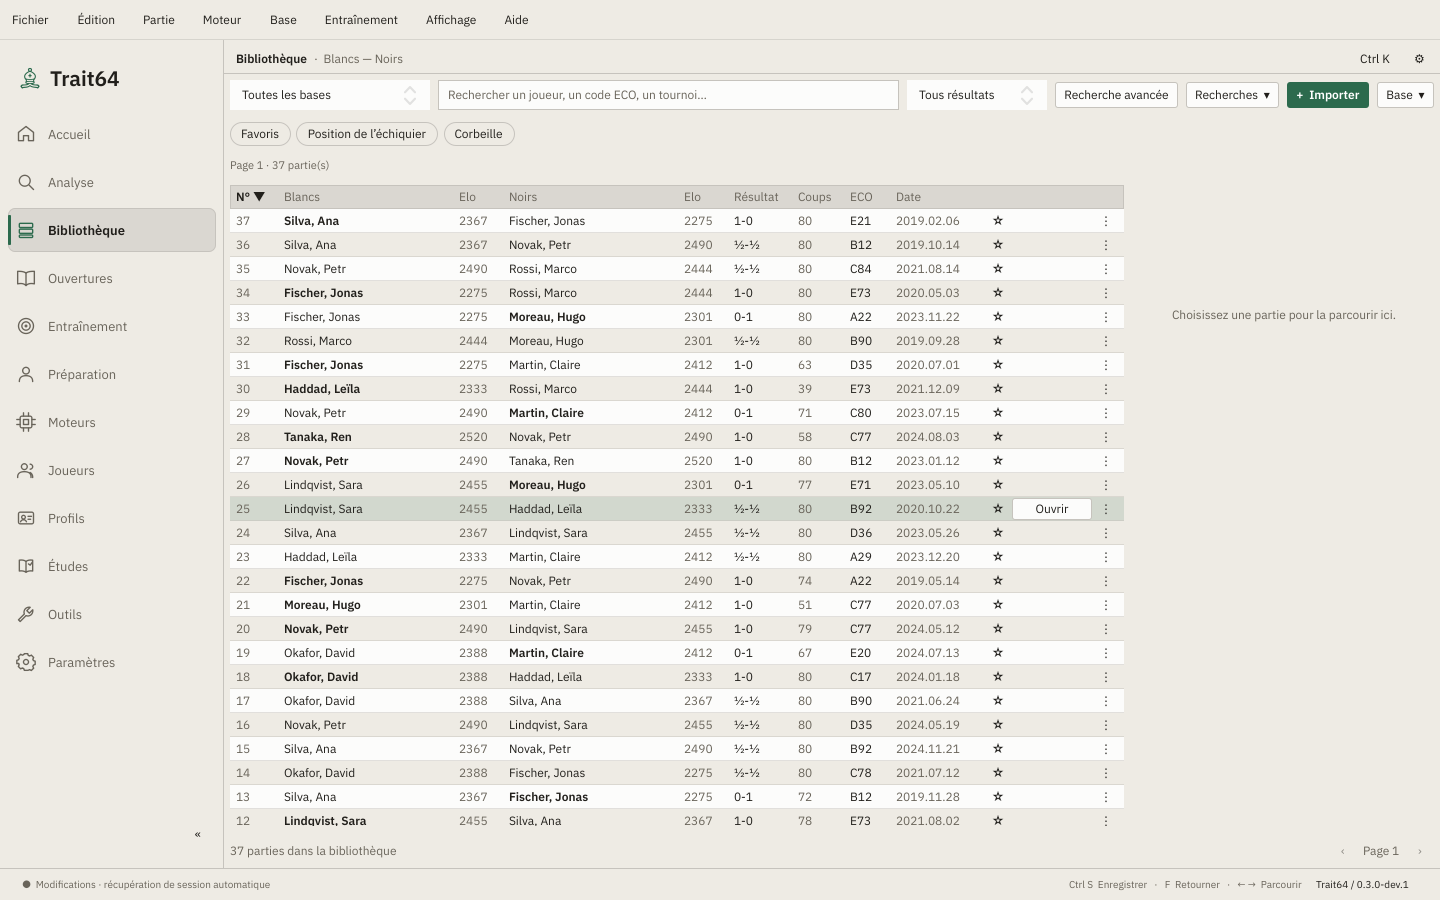
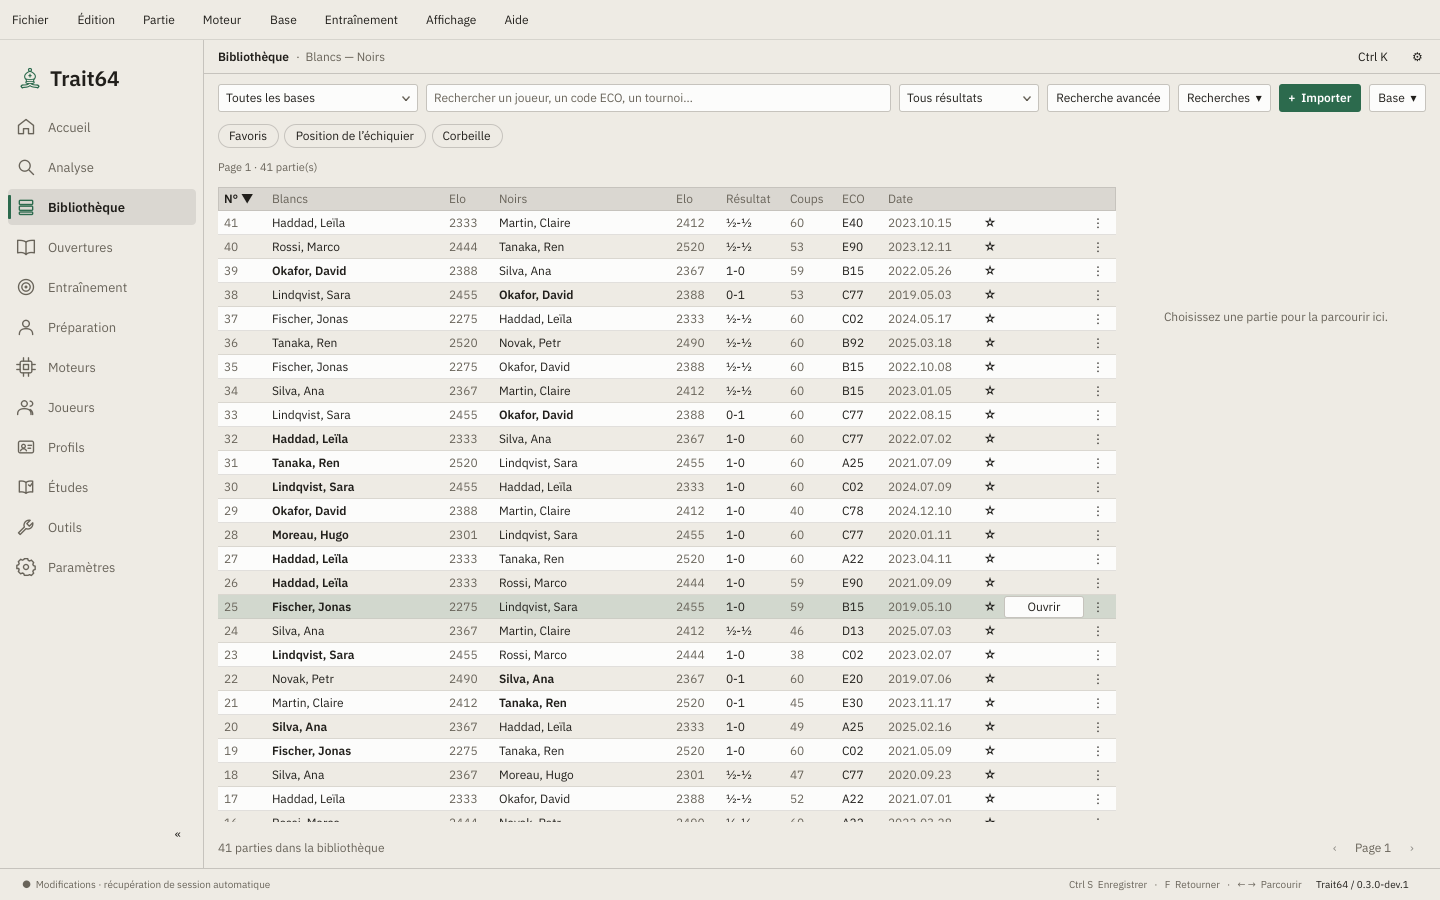
Version 0.4.0 : première bêta, README et captures à jour, notes de version, modèle de bug étendu à Windows et macOS

diff --git a/ui/Main.qml b/ui/Main.qml
@@ -854,7 +854,7 @@ ColumnLayout {width:trainingViewport.availableWidth;height:Math.max(trainingView
                     Rectangle {Layout.fillWidth:true;implicitHeight:children[0].implicitHeight+36;radius:6;color:"transparent";border.color:win.line
                         ColumnLayout {anchors.fill:parent;anchors.margins:18;spacing:6
                             Label {text:qsTr("Trait64 est un logiciel libre.");font.pixelSize:Math.round(14*controller.preferences.fontScale*controller.preferences.uiScale);font.weight:Font.DemiBold}
-                            Label {text:qsTr("C++23 · Qt6 · chess-library · moteurs UCI externes. Code sous AGPL-3.0-or-later.\nCette version alpha propose les outils locaux essentiels ; le catalogue complet reste en développement.");color:win.muted;wrapMode:Text.WordWrap;Layout.fillWidth:true;font.pixelSize:Math.round(12*controller.preferences.fontScale*controller.preferences.uiScale)}
+                            Label {text:qsTr("C++23 · Qt6 · chess-library · moteurs UCI externes. Code sous AGPL-3.0-or-later.\nVersion bêta : les fonctions sont là, elles s'affinent encore. Gardez des sauvegardes de vos bases.");color:win.muted;wrapMode:Text.WordWrap;Layout.fillWidth:true;font.pixelSize:Math.round(12*controller.preferences.fontScale*controller.preferences.uiScale)}
                         }
                     }
                     Item {height:20}
@@ -1165,7 +1165,7 @@ ColumnLayout {width:trainingViewport.availableWidth;height:Math.max(trainingView
             Label {objectName:"helpTitle";Layout.fillWidth:true;Layout.minimumWidth:0;wrapMode:Text.WordWrap;text:qsTr("Un atelier personnel pour vos échecs.");font.pixelSize:Math.round(21*controller.preferences.fontScale*controller.preferences.uiScale);font.weight:Font.DemiBold}
             Label {text:qsTr("• Cliquez une pièce puis sa case, ou glissez-la.\n• Revenez dans une partie et jouez un autre coup pour créer une variante.\n• Clic droit glissé : flèche ; clic droit sur une case : cercle ;\n  double clic, gauche ou droit : effacer toutes les annotations.\n• Ctrl + molette au-dessus de l’échiquier : régler sa taille.\n• Flèches gauche/droite : coups ; haut/bas : variantes ; Espace : lecture automatique.\n• Clic droit sur un coup ou touche Suppr : le supprimer avec sa suite (Ctrl+Z pour annuler).\n• Enregistrez une étude pour l’ajouter à votre bibliothèque.\n• Importez un PGN pour alimenter l’explorateur d’ouvertures.\n• Créez des cartes à partir des lignes que vous souhaitez retenir.");wrapMode:Text.WordWrap;Layout.fillWidth:true;lineHeight:1.5}
             Label {text:qsTr("Ctrl N : nouvelle étude    ·    Ctrl O : importer\nCtrl S : enregistrer    ·    Ctrl K : commandes\n← / → : précédent / suivant    ·    F : retourner\nDébut / Fin : début / fin de la ligne");Layout.fillWidth:true;wrapMode:Text.WordWrap;color:win.muted;lineHeight:1.6}
-            Label {text:qsTr("Version de développement 0.3.0. Les sauvegardes PGN et SQLite sont recommandées pour vos études importantes. Le format .t64 est expérimental.");wrapMode:Text.WordWrap;Layout.fillWidth:true;font.pixelSize:Math.round(11*controller.preferences.fontScale*controller.preferences.uiScale);color:win.muted}
+            Label {text:qsTr("Version %1. Les sauvegardes PGN et SQLite sont recommandées pour vos études importantes. Le format .t64 est expérimental.").arg(Qt.application.version);wrapMode:Text.WordWrap;Layout.fillWidth:true;font.pixelSize:Math.round(11*controller.preferences.fontScale*controller.preferences.uiScale);color:win.muted}
         }}
     }
     TDialog {id:advancedDialog;objectName:"advancedDialog";title:qsTr("Recherche avancée");anchors.centerIn:parent;width:Math.min(690,win.width-32);height:Math.min(760,win.height-32);modal:true;standardButtons:Dialog.Ok|Dialog.Cancel

diff --git a/docs/PROJECT-STATUS.md b/docs/PROJECT-STATUS.md
@@ -1,18 +1,18 @@
-# Trait64 — état du projet au 19 novembre 2026
+# Trait64 — état du projet au 20 novembre 2026
 
-> **Alpha 0.3 · C++23 / Qt6/QML · SQLite · Linux, Windows et macOS · AGPL-3.0-or-later**
+> **Bêta 0.4 · C++23 / Qt6/QML · SQLite · Linux, Windows et macOS · AGPL-3.0-or-later**
 
 Ce document présente **le code fusionné dans `main` et les versions réellement publiées**. Le détail des changements est dans le [journal](CHANGELOG.md), ce qui reste à faire dans la [feuille de route](ROADMAP.md), les mesures dans [PERFORMANCE.md](PERFORMANCE.md). L'interface, le moteur et les données restent utilisables localement, sans compte ni connexion obligatoire.
 
 ## Dernière version publiée
 
-**[v0.3.0-dev.231](https://github.com/SimzyGit/Trait64/releases/tag/v0.3.0-dev.231)** — 19 novembre 2026. Construction, tests et publication Linux verts (Debian 12 et 13, sanitizers), constructions et tests Windows et macOS verts, lancement de l'AppImage vert sur les 12 distributions. Localement : 20 suites vertes.
+**[v0.4.0-beta.1](https://github.com/SimzyGit/Trait64/releases/tag/v0.4.0-beta.1)** — 20 novembre 2026. Première bêta : nouvelle allure (contrôles, dialogues et onglets redessinés), tournois de moteurs avec marge d'erreur et LOS, plantage du zoom de la bibliothèque corrigé. Avant publication : 20 suites réussies sous AddressSanitizer et UBSan, trois passages de suite sous charge, sonde de mise en page (164 vues de dialogues, 0 avertissement QML). Les préversions de développement continuent de sortir à chaque commit sur `main`, désormais en `0.4.0-dev.N`.
 
 ## Ce qui est intégré
 
 | Domaine | Capacités réellement développées |
 | --- | --- |
-| Interface | Navigation latérale, panneaux adaptables, clavier, thèmes, français/anglais |
+| Interface | Navigation latérale, panneaux adaptables, clavier, thèmes clair et sombre, contrôles communs à une seule mesure, français/anglais/espagnol |
 | Échiquier | Glisser ou clic-clic, pièces animées, sons des coups, flèches du moteur, menace, pièces prises et avance matérielle, lecture automatique, molette en option |
 | Études | Variantes, Chess960, titres de rubrique, diagrammes, questions d'entraînement, étiquettes à l'import, PGN annoté, onglets, explorateur de fichiers avec arbre, corbeille du système, export PGN, EPD et page HTML autonome |
 | Moteurs | UCI, détection des moteurs installés, catalogue téléchargeable, MultiPV, comparaison de 2 à 4 moteurs, recherche sans plafond de profondeur, de fils ni de mémoire autre que la machine |

diff --git a/README.md b/README.md
@@ -77,12 +77,12 @@ Les paquets ne sont pas signés : au premier lancement, Windows (SmartScreen) et
 - **Répertoires** — import d’un dossier entier venu d’En Croissant ou de Pawn Appétit, PGN compressés compris, et une comparaison avec vos propres parties : à quel coup vous quittez votre préparation, et ce qui était prévu à la place.
 - **Études** — notation avec titres de rubrique, diagrammes et questions d’entraînement, étiquettes à l’import, recueils d’études tenus à l’écart des statistiques de joueurs.
 - **Entraînement** — puzzles notés (base Lichess libre, vos propres gaffes, mats tirés de votre bibliothèque), cartes à répétition espacée, révision de répertoire, exercice de Stoyko.
-- **Jeu** — contre le moteur à un Elo choisi, à deux avec pendule, tournois entre moteurs.
+- **Jeu** — contre le moteur à un Elo choisi, à deux avec pendule, tournois entre moteurs avec Elo, marge d’erreur et probabilité de supériorité (LOS).
 - **Confort** — thème clair ou sombre, taille d’interface réglable, français, anglais et espagnol, **Ctrl K** pour la palette de commandes.
 
 ![Bibliothèque de parties](docs/screenshots/library.png)
 
-Trait64 est en **alpha** et évolue vite : voir les [nouveautés](docs/CHANGELOG.md), l’[état du projet](docs/PROJECT-STATUS.md) et la [feuille de route](docs/ROADMAP.md).
+Trait64 est en **bêta** (0.4) et évolue vite : voir les [nouveautés](docs/CHANGELOG.md), l’[état du projet](docs/PROJECT-STATUS.md) et la [feuille de route](docs/ROADMAP.md).
 
 ## Premiers pas
 
@@ -98,7 +98,7 @@ Trait64 est en **alpha** et évolue vite : voir les [nouveautés](docs/CHANGELOG
 | --- | --- |
 | [Fonctions en détail](docs/FEATURES.md) | tout ce que fait Trait64, raccourcis, données et limites |
 | [Installer et compiler](docs/BUILDING.md) | paquets, AppImage, compilation depuis les sources |
-| [Comparaison](docs/COMPARISON.md) | Trait64 face à ChessBase, Scid vs. PC et En Croissant |
+| [Comparaison](docs/COMPARISON.md) | Trait64 face à ChessBase, Scid, En Croissant, Fritz, HIARCS, Lichess, Chess.com et une quinzaine d’autres outils |
 | [Moteurs et bases](docs/ENGINES-DATABASES.md) · [Mises à jour](docs/UPDATES.md) | catalogue vérifié et canaux de mise à jour |
 | [Architecture](docs/ARCHITECTURE.md) · [Tests](docs/TESTING.md) | pour contribuer au code |
 

diff --git a/README.en.md b/README.en.md
@@ -66,12 +66,12 @@ The packages are unsigned: on first launch Windows (SmartScreen) and macOS (Gate
 - **Openings** — statistical tree of your own database, endgame odds and trends, Lichess cloud analysis, Polyglot books, repertoires with transpositions, novelty detection, a preparation file against a given opponent.
 - **Studies** — notation with section headings, diagrams and training questions, labels on import, study collections kept out of player statistics.
 - **Training** — rated puzzles (the free Lichess set, your own blunders, mates taken from your library), spaced-repetition cards, repertoire review, the Stoyko exercise.
-- **Playing** — against the engine at a chosen rating, two players with a clock, engine tournaments.
+- **Playing** — against the engine at a chosen rating, two players with a clock, engine tournaments with Elo, error margin and likelihood of superiority (LOS).
 - **Comfort** — light or dark theme, adjustable interface size, French, English and Spanish, **Ctrl K** for the command palette.
 
 ![Game library](docs/screenshots/library.png)
 
-Trait64 is **alpha** and moving fast: see the [changelog](docs/CHANGELOG.md), the [project status](docs/PROJECT-STATUS.md) and the [roadmap](docs/ROADMAP.md).
+Trait64 is in **beta** (0.4) and moving fast: see the [changelog](docs/CHANGELOG.md), the [project status](docs/PROJECT-STATUS.md) and the [roadmap](docs/ROADMAP.md).
 
 ## First steps
 
@@ -87,7 +87,7 @@ Trait64 is **alpha** and moving fast: see the [changelog](docs/CHANGELOG.md), th
 | --- | --- |
 | [Features in detail](docs/FEATURES.md) | everything Trait64 does, shortcuts, data and limits |
 | [Install and build](docs/BUILDING.md) | packages, AppImage, building from source |
-| [Comparison](docs/COMPARISON.md) | Trait64 against ChessBase, Scid vs. PC and En Croissant |
+| [Comparison](docs/COMPARISON.md) | Trait64 against ChessBase, Scid, En Croissant, Fritz, HIARCS, Lichess, Chess.com and some fifteen other tools |
 | [Engines and databases](docs/ENGINES-DATABASES.md) · [Updates](docs/UPDATES.md) | verified catalogue and update channels |
 | [Architecture](docs/ARCHITECTURE.md) · [Testing](docs/TESTING.md) | to contribute code |
 

diff --git a/docs/RELEASE-NOTES.md b/docs/RELEASE-NOTES.md
@@ -1,3 +1,15 @@
+## 0.4.0-beta.1 — 20 novembre 2026
+
+**Première bêta.** Trait64 couvre désormais l'essentiel de ce que font ChessBase, Scid et En Croissant, et la comparaison s'étend à une quinzaine d'autres outils ([docs/COMPARISON.md](COMPARISON.md)).
+
+**Une interface tenue d'un bout à l'autre.** Champs, listes, compteurs, cases à cocher et boutons ont la même hauteur, le même filet et le même focus. Les dialogues ont leurs boutons en bas à droite, à taille normale. Les onglets sont soulignés, les études ouvertes sont des onglets de document et le coup courant de la notation se lit à son fond teinté. La barre d'évaluation est blanche et noire comme l'échiquier. Les nombres des compteurs s'écrivent à la française.
+
+**Des tournois de moteurs qu'on peut lire.** Le classement donne l'écart d'Elo avec sa marge d'erreur à 95 % et la probabilité que chaque moteur soit réellement plus fort (LOS), calculées comme dans Cute Chess et fastchess.
+
+**Un plantage en moins.** Ctrl + molette sur la bibliothèque pouvait fermer le programme ; c'est corrigé.
+
+Détail complet dans le [journal des changements](CHANGELOG.md).
+
 ## Ouvertures, analyse et mise à jour — 6 novembre 2026
 
 **Vos fichiers PGN se parcourent enfin partie par partie.** Une étude n'est pas

diff --git a/docs/CHANGELOG.md b/docs/CHANGELOG.md
@@ -1,5 +1,11 @@
 # Changements
 
+## 0.4.0-beta.1 — 20 novembre 2026
+
+- **Version 0.4**, première bêta. Le numéro affiché dans les paramètres suit désormais la version réelle au lieu d'un « 0.3.0 » écrit en dur.
+- **README** : captures refaites avec la nouvelle allure, sur une base de joueurs fictifs, comparaison et tournois de moteurs à jour (français et anglais).
+- **Signalement de bug** : Windows et macOS parmi les installations proposées.
+
 ## Tournois de moteurs mesurés — 20 novembre 2026
 
 - **Elo ± marge à 95 %** et **LOS** (probabilité d'être réellement plus fort) dans le classement des tournois de moteurs, calculés comme dans Cute Chess et fastchess. Un écart de 50 Elo sur dix parties ne se lit plus comme un résultat établi.
